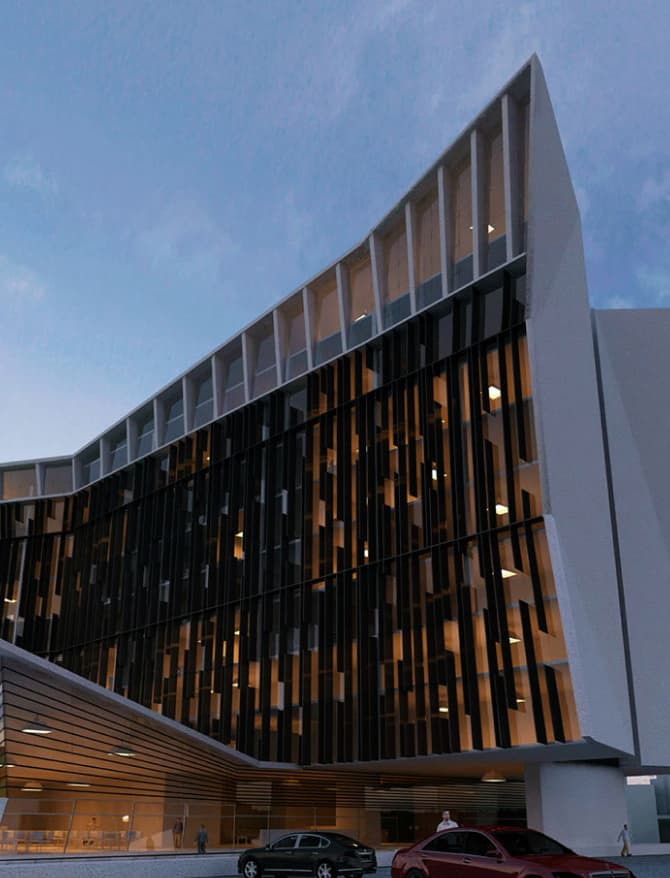
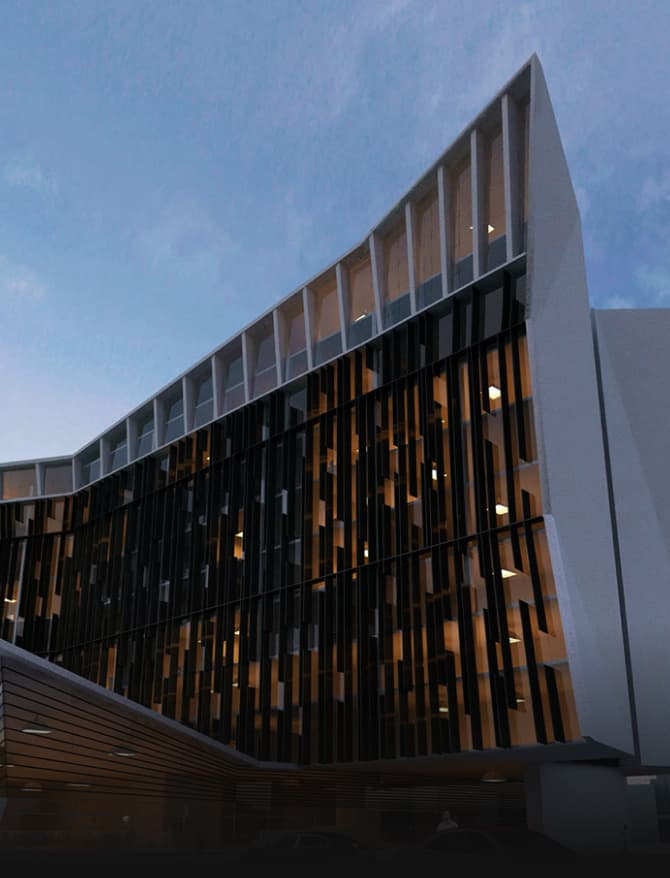
hero mobile corection

Changed region(s): [[0.0, 0.738, 1.0, 1.0], [0.5075, 0.7688, 0.5373, 0.7995]]

diff --git a/src/css/layout/hero.css b/src/css/layout/hero.css
@@ -1,8 +1,29 @@
 .hero-main{
-    padding-top: 50px;
+    padding-top: 429px;
     padding-bottom: 38px;
-    background-color: var(--primary-text-color);
+    background-color: var(--dark-bcg-color);
+    /* background-image:
+     linear-gradient(180deg, rgba(0, 0, 0, 0) 70.73%, 
+     #121212 98.51%), 
+     url("../img/mobil/home/hero-mobil.jpg");  */
+
+     background-image: 
+          url("../img/mobil/home/hero-mobil.jpg"); 
+
+     background-size: 335px 439px;
+     background-position: center 40px;
+     background-repeat: no-repeat;
+
 }
+
+@media (min-device-pixel-ratio: 2),
+  (min-resolution: 192dpi),
+  (min-resolution: 2dppx) {
+  .hero-main {
+    background-image: 
+      url("../img/mobil/home/hero-mobil@2x.jpg"); 
+  } 
+  }
 
 .hero-main h1{
     margin-bottom: 24px;
@@ -12,27 +33,6 @@
     letter-spacing: -0.02em;
     text-align: center;
     color: var(--text-color-light);
-}
-
-.hero-image{
-    margin-left: auto;
-    margin-right: auto;
-    height: 439px;
-    max-width: 335px;
-    background-image:
-     linear-gradient(180deg, rgba(0, 0, 0, 0) 70.73%, 
-     #121212 98.51%), 
-     url("../img/mobil/home/hero-mobil.jpg");;
-
-    
-  background-position: center;
-  background-repeat: no-repeat;
-  background-size: cover; 
-
-}
-
-.hero-title-box{
-    margin-top: calc(389px - 439px);
 }
 
 .hero-btn{

diff --git a/src/partials/hero.html b/src/partials/hero.html
@@ -1,7 +1,7 @@
 <section class="hero-main">
-    <section class="container">
+    <div class="container">
      
-            <div class="hero-image"></div>
+            <!-- <div class="hero-image"></div> -->
         
         
                 <div class="hero-title-box">
@@ -19,5 +19,5 @@
             
         
 
-    </section>
+    </div>
 </section>

diff --git a/src/css/utils/varibles.css b/src/css/utils/varibles.css
@@ -10,6 +10,7 @@
     --font-weight-large:700;
     
         
+    --dark-bcg-color: #121212;
     --text-color-light: #f6f6f6;
     --text-color-btn-light: #f7f7f7; 
     --active-bcg-btn-dark: #ffffff;
